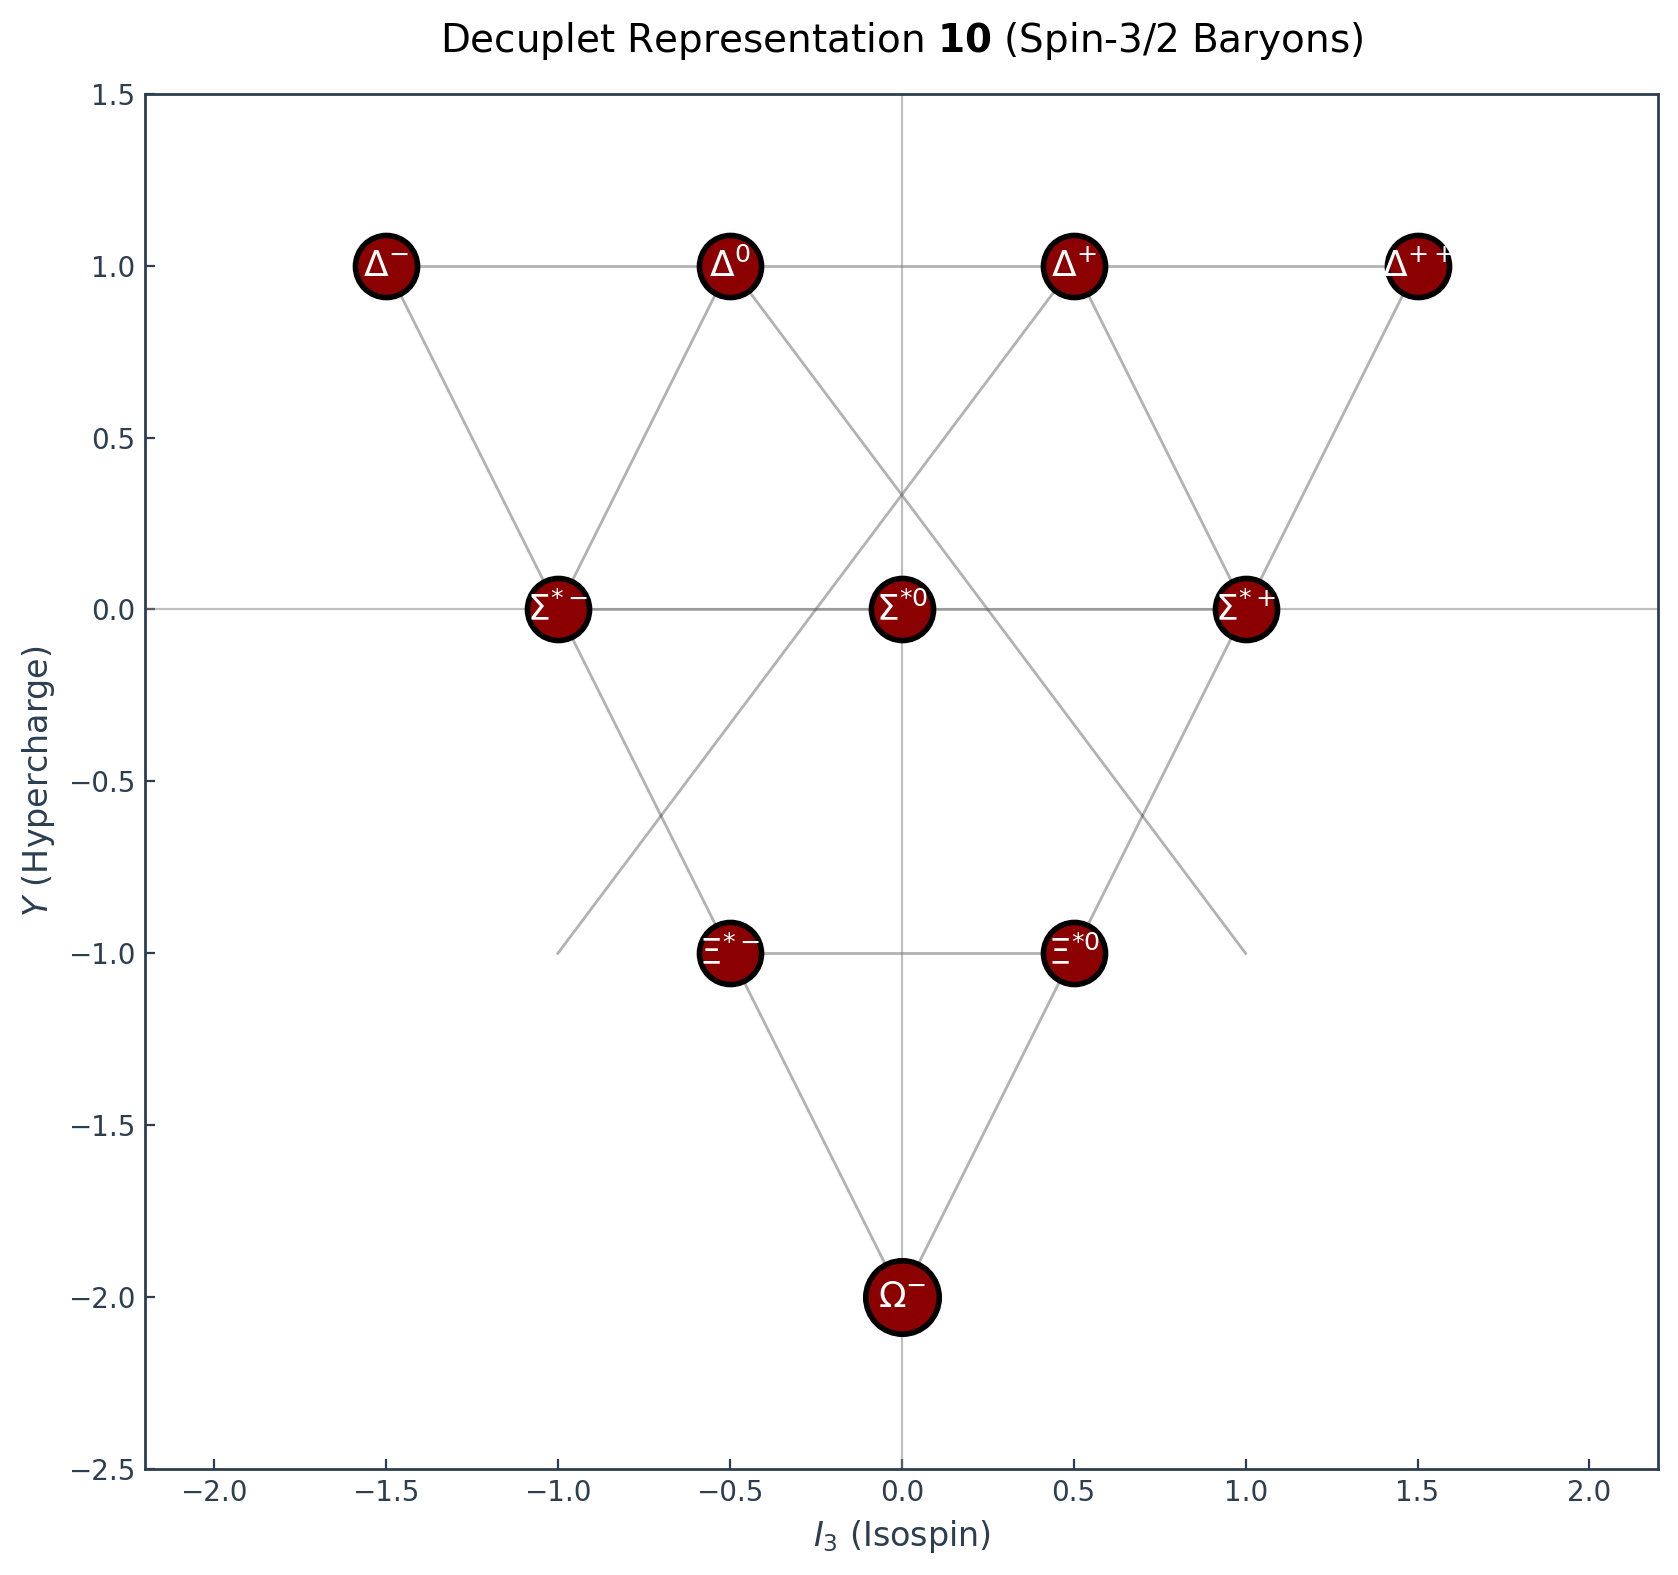
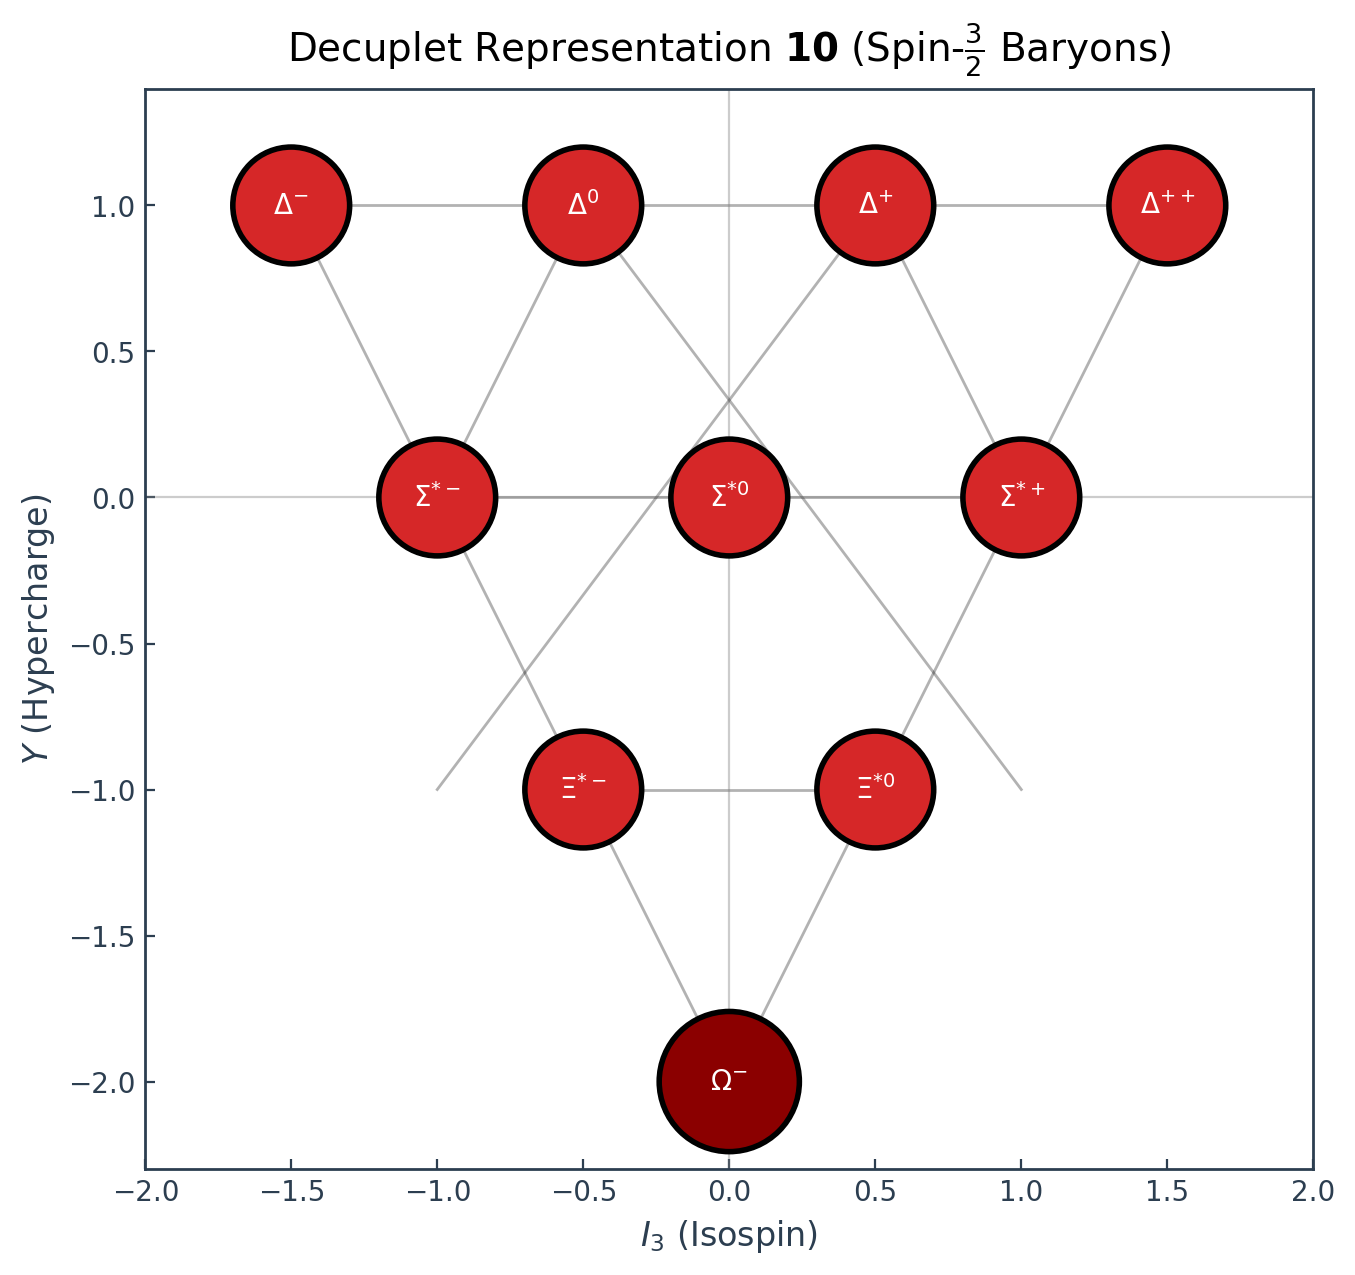
Fix SU(3) weight diagrams: improve alignment and line positioning

diff --git a/utils/generate_su3_weight_diagrams_v3.py b/utils/generate_su3_weight_diagrams_v3.py
@@ -1,0 +1,225 @@
+#!/usr/bin/env python3
+"""
+Generate SU(3) weight diagrams with precise alignment.
+"""
+
+import matplotlib.pyplot as plt
+import matplotlib.patches as mpatches
+import numpy as np
+import os
+import sys
+
+sys.path.insert(0, os.path.dirname(__file__))
+from plot_style import setup_style, COLORS
+
+OUTPUT_DIR = 'docs/images/angular-momentum'
+
+
+def draw_fundamental_triplet():
+    """Draw fundamental representation (3) - quark triplet."""
+    setup_style()
+    fig, ax = plt.subplots(figsize=(6.5, 5.5))
+    
+    # Exact quark positions
+    u_pos = (0.5, 1/3)
+    d_pos = (-0.5, 1/3)
+    s_pos = (0, -2/3)
+    
+    colors = {'u': '#d62728', 'd': '#1f77b4', 's': '#2ca02c'}
+    
+    # Draw lines FIRST (behind circles)
+    # Triangle outline
+    triangle_x = [u_pos[0], d_pos[0], s_pos[0], u_pos[0]]
+    triangle_y = [u_pos[1], d_pos[1], s_pos[1], u_pos[1]]
+    ax.plot(triangle_x, triangle_y, 'k-', linewidth=1.5, alpha=0.3, zorder=1)
+    
+    # Ladder operator arrows - carefully positioned
+    # I+/- arrows between u and d
+    ax.annotate('', xy=(0.25, 1/3), xytext=(0.05, 1/3),
+               arrowprops=dict(arrowstyle='->', color='purple', lw=1.5), zorder=2)
+    ax.annotate('', xy=(-0.25, 1/3), xytext=(-0.05, 1/3),
+               arrowprops=dict(arrowstyle='->', color='purple', lw=1.5), zorder=2)
+    ax.text(0, 1/3 + 0.15, r'$I_\pm$', fontsize=12, ha='center', color='purple', fontweight='bold')
+    
+    # V+/- arrows from d to s
+    ax.annotate('', xy=(-0.25, -0.15), xytext=(-0.08, 0.15),
+               arrowprops=dict(arrowstyle='->', color='darkorange', lw=1.5), zorder=2)
+    ax.text(-0.4, -0.05, r'$V_\pm$', fontsize=11, ha='center', color='darkorange',
+           bbox=dict(boxstyle='round,pad=0.1', facecolor='white', alpha=0.9, edgecolor='none'))
+    
+    # U+/- arrows from u to s  
+    ax.annotate('', xy=(0.25, -0.15), xytext=(0.08, 0.15),
+               arrowprops=dict(arrowstyle='->', color='teal', lw=1.5), zorder=2)
+    ax.text(0.4, -0.05, r'$U_\pm$', fontsize=11, ha='center', color='teal',
+           bbox=dict(boxstyle='round,pad=0.1', facecolor='white', alpha=0.9, edgecolor='none'))
+    
+    # Draw quark circles ON TOP
+    for name, pos in [('u', u_pos), ('d', d_pos), ('s', s_pos)]:
+        circle = plt.Circle(pos, 0.18, facecolor=colors[name], edgecolor='black', 
+                          linewidth=2, zorder=5)
+        ax.add_patch(circle)
+        ax.annotate(f'${name}$', pos, fontsize=18, ha='center', va='center',
+                   color='white', fontweight='bold', zorder=6)
+    
+    # Quantum number labels
+    ax.text(0.5, 1/3 - 0.28, r'$(+\frac{1}{2}, +\frac{1}{3})$', fontsize=10, ha='center')
+    ax.text(-0.5, 1/3 - 0.28, r'$(-\frac{1}{2}, +\frac{1}{3})$', fontsize=10, ha='center')
+    ax.text(0, -2/3 - 0.28, r'$(0, -\frac{2}{3})$', fontsize=10, ha='center')
+    
+    # Axes
+    ax.set_xlabel(r'$I_3$ (Isospin)', fontsize=12)
+    ax.set_ylabel(r'$Y$ (Hypercharge)', fontsize=12)
+    ax.axhline(y=0, color='gray', linewidth=0.8, alpha=0.4)
+    ax.axvline(x=0, color='gray', linewidth=0.8, alpha=0.4)
+    ax.set_aspect('equal')
+    ax.set_xlim(-1.1, 1.1)
+    ax.set_ylim(-1.2, 0.9)
+    ax.set_title(r'Fundamental Representation $\mathbf{3}$ (Quarks)', fontsize=14, pad=10)
+    
+    plt.tight_layout()
+    filepath = os.path.join(OUTPUT_DIR, 'su3_fundamental_triplet.png')
+    fig.savefig(filepath, dpi=200, bbox_inches='tight', facecolor='white', edgecolor='none')
+    print(f"Saved: {filepath}")
+    plt.close()
+
+
+def draw_octet_baryons():
+    """Draw octet representation (8) - baryon octet."""
+    setup_style()
+    fig, ax = plt.subplots(figsize=(8.5, 6.5))
+    
+    # Exact positions
+    baryons = [
+        ('p', 0.5, 1), ('n', -0.5, 1),
+        (r'$\Sigma^+$', 1, 0), (r'$\Sigma^0$', 0.1, 0.05), (r'$\Lambda$', -0.1, -0.05), (r'$\Sigma^-$', -1, 0),
+        (r'$\Xi^0$', 0.5, -1), (r'$\Xi^-$', -0.5, -1),
+    ]
+    
+    # Define lines connecting the points - using EXACT point coordinates
+    connections = [
+        # Outer hexagon
+        [(-0.5, 1), (0.5, 1)], [(0.5, 1), (1, 0)], [(1, 0), (0.5, -1)],
+        [(0.5, -1), (-0.5, -1)], [(-0.5, -1), (-1, 0)], [(-1, 0), (-0.5, 1)],
+        # Cross lines
+        [(-0.5, 1), (0.5, -1)], [(0.5, 1), (-0.5, -1)],
+        # Horizontal through center
+        [(-1, 0), (1, 0)],
+    ]
+    
+    # Draw lines FIRST
+    for start, end in connections:
+        ax.plot([start[0], end[0]], [start[1], end[1]], 'k-', 
+               linewidth=1.2, alpha=0.25, zorder=1)
+    
+    # Draw points ON TOP
+    for name, i3, y in baryons:
+        is_center = name in [r'$\Sigma^0$', r'$\Lambda$']
+        if is_center:
+            # Two overlapping circles for center
+            offset = 0.06
+            for dx, label in [(offset, r'$\Sigma^0$'), (-offset, r'$\Lambda$')]:
+                circle = plt.Circle((i3 + dx, y), 0.22, facecolor='#2ca02c', 
+                                  edgecolor='black', linewidth=2, zorder=5)
+                ax.add_patch(circle)
+                ax.text(i3 + dx, y, label, fontsize=10, ha='center', va='center',
+                       color='white', fontweight='bold', zorder=6)
+        else:
+            circle = plt.Circle((i3, y), 0.22, facecolor='#2ca02c', 
+                              edgecolor='black', linewidth=2, zorder=5)
+            ax.add_patch(circle)
+            fs = 12 if len(name) > 3 else 13
+            ax.text(i3, y, name, fontsize=fs, ha='center', va='center',
+                   color='white', fontweight='bold', zorder=6)
+    
+    # Legend
+    ax.text(1.2, -1.2, r'Center contains 2 states: $\Sigma^0$, $\Lambda$',
+           fontsize=10, ha='right', va='bottom',
+           bbox=dict(boxstyle='round', facecolor='lightyellow', alpha=0.9))
+    
+    # Axes
+    ax.set_xlabel(r'$I_3$ (Isospin)', fontsize=12)
+    ax.set_ylabel(r'$Y$ (Hypercharge)', fontsize=12)
+    ax.axhline(y=0, color='gray', linewidth=0.8, alpha=0.4)
+    ax.axvline(x=0, color='gray', linewidth=0.8, alpha=0.4)
+    ax.set_aspect('equal')
+    ax.set_xlim(-1.5, 1.5)
+    ax.set_ylim(-1.4, 1.3)
+    ax.set_title(r'Octet Representation $\mathbf{8}$ (Spin-$\frac{1}{2}$ Baryons)', fontsize=14, pad=10)
+    
+    plt.tight_layout()
+    filepath = os.path.join(OUTPUT_DIR, 'su3_octet_baryons.png')
+    fig.savefig(filepath, dpi=200, bbox_inches='tight', facecolor='white', edgecolor='none')
+    print(f"Saved: {filepath}")
+    plt.close()
+
+
+def draw_decuplet_baryons():
+    """Draw decuplet representation (10) - baryon decuplet."""
+    setup_style()
+    fig, ax = plt.subplots(figsize=(9.5, 6.5))
+    
+    # Exact decuplet positions
+    decuplet = [
+        (r'$\Delta^{++}$', 3/2, 1), (r'$\Delta^{+}$', 1/2, 1),
+        (r'$\Delta^{0}$', -1/2, 1), (r'$\Delta^{-}$', -3/2, 1),
+        (r'$\Sigma^{*+}$', 1, 0), (r'$\Sigma^{*0}$', 0, 0), (r'$\Sigma^{*-}$', -1, 0),
+        (r'$\Xi^{*0}$', 1/2, -1), (r'$\Xi^{*-}$', -1/2, -1),
+        (r'$\Omega^{-}$', 0, -2),
+    ]
+    
+    # Draw grid lines FIRST
+    # Horizontal lines
+    for y, x_start, x_end in [(1, -3/2, 3/2), (0, -1, 1), (-1, -1/2, 1/2)]:
+        ax.plot([x_start, x_end], [y, y], 'k-', linewidth=1, alpha=0.3, zorder=1)
+    
+    # Diagonal lines (left and right slanting)
+    diagonals = [
+        # Left slanting (down-right)
+        [(-3/2, 1), (0, -2)], [(-1/2, 1), (1, -1)], [(1/2, 1), (1, 0)],
+        # Right slanting (down-left)  
+        [(3/2, 1), (0, -2)], [(1/2, 1), (-1, -1)], [(-1/2, 1), (-1, 0)],
+    ]
+    for start, end in diagonals:
+        ax.plot([start[0], end[0]], [start[1], end[1]], 'k-', 
+               linewidth=1, alpha=0.3, zorder=1)
+    
+    # Draw points ON TOP
+    for name, i3, y in decuplet:
+        is_omega = r'\Omega' in name
+        radius = 0.24 if is_omega else 0.2
+        color = '#8B0000' if is_omega else '#d62728'  # Darker red for omega
+        
+        circle = plt.Circle((i3, y), radius, facecolor=color, 
+                          edgecolor='black', linewidth=2, zorder=5)
+        ax.add_patch(circle)
+        
+        fs = 10 if len(name) > 6 else 11
+        ax.text(i3, y, name, fontsize=fs, ha='center', va='center',
+               color='white', fontweight='bold', zorder=6)
+    
+    # Axes
+    ax.set_xlabel(r'$I_3$ (Isospin)', fontsize=12)
+    ax.set_ylabel(r'$Y$ (Hypercharge)', fontsize=12)
+    ax.axhline(y=0, color='gray', linewidth=0.8, alpha=0.4)
+    ax.axvline(x=0, color='gray', linewidth=0.8, alpha=0.4)
+    ax.set_aspect('equal')
+    ax.set_xlim(-2.0, 2.0)
+    ax.set_ylim(-2.3, 1.4)
+    ax.set_title(r'Decuplet Representation $\mathbf{10}$ (Spin-$\frac{3}{2}$ Baryons)', fontsize=14, pad=10)
+    
+    plt.tight_layout()
+    filepath = os.path.join(OUTPUT_DIR, 'su3_decuplet_baryons.png')
+    fig.savefig(filepath, dpi=200, bbox_inches='tight', facecolor='white', edgecolor='none')
+    print(f"Saved: {filepath}")
+    plt.close()
+
+
+if __name__ == '__main__':
+    print("Generating SU(3) weight diagrams v3...")
+    os.makedirs(OUTPUT_DIR, exist_ok=True)
+    
+    draw_fundamental_triplet()
+    draw_octet_baryons()
+    draw_decuplet_baryons()
+    
+    print("\nAll diagrams generated!")
